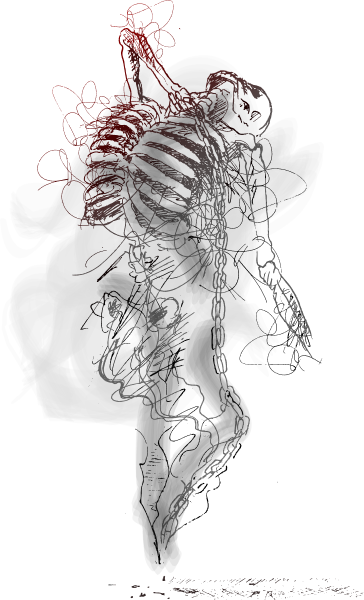
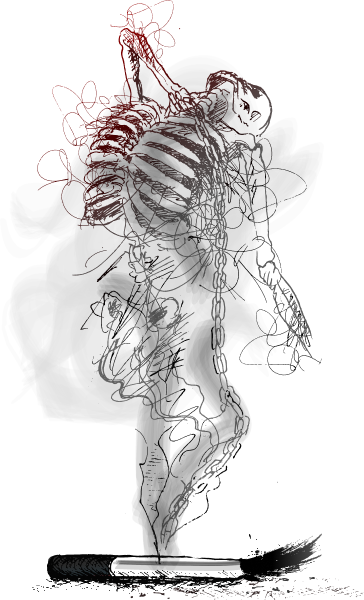
uiux skeleton picture changed

Changed region(s): [[0.1209, 0.9, 0.8764, 0.99], [0.3626, 0.06, 0.3929, 0.09]]

diff --git a/app/[locale]/components/pages/home/slidersItems.jsx b/app/[locale]/components/pages/home/slidersItems.jsx
@@ -20,7 +20,7 @@ const SlidersItems = ({ activeSlide, changeSlide, locale }) => {
                     ></div>
                 </div>
                 <div className='relative item_wrapper'>
-                    <Image src={frontItem} alt='frontend' className='cursor-pointer' onClick={() => changeSlide(1)} />
+                    <Image src={backItem} alt='frontend' className='cursor-pointer' onClick={() => changeSlide(1)} />
                     <div
                         className={`absolute left-[-37px] top-[30px] w-[14px] h-[14px] bg-[#80949C] rounded-full transition-all duration-200 ${
                             activeSlide === 1 ? 'shadow-customShadow bg-[#C6E8EA]' : ''
@@ -28,7 +28,7 @@ const SlidersItems = ({ activeSlide, changeSlide, locale }) => {
                     ></div>
                 </div>
                 <div className='relative item_wrapper'>
-                    <Image src={backItem} alt='uiux' className='cursor-pointer' onClick={() => changeSlide(2)} />
+                    <Image src={frontItem} alt='uiux' className='cursor-pointer' onClick={() => changeSlide(2)} />
                     <div
                         className={`absolute left-[-37px] top-[30px] w-[14px] h-[14px] bg-[#80949C] rounded-full transition-all duration-200 ${
                             activeSlide === 2 ? 'shadow-customShadow bg-[#C6E8EA]' : ''

diff --git a/app/[locale]/page.js b/app/[locale]/page.js
@@ -10,7 +10,6 @@ import Image from 'next/image';
 import arrowIcon from './../assets/icons/arrowIcon.svg';
 import arrowIconReverse from './../assets/icons/arrowIconReverse.svg';
 import { HomeStyle } from './home.style';
-import brush from './../assets/images/brush.png';
 import uiuxSkeleton from './../assets/images/uiuxSkeleton.png';
 import frontEndSkeleton from './../assets/images/frontEndSkeleton.png';
 import backEndSkeleton from './../assets/images/backEndSkeleton.png';
@@ -88,7 +87,6 @@ export default function Home() {
                             <div className='flex items-center gap-12'>
                                 <div className='flex-grow flex flex-col items-end'>
                                     <Image src={uiuxSkeleton} alt='uiuxPicture' onClick={() => changeSlide(2)} />
-                                    <Image src={brush} alt='uiuxPicture' className='mt-[-60px] mr-[50px]' />
                                 </div>
                                 <SlidersItems activeSlide={activeSlide} changeSlide={changeSlide} locale={locale} />
                             </div>

diff --git a/app/[locale]/components/layout/header.jsx b/app/[locale]/components/layout/header.jsx
@@ -52,7 +52,9 @@ const Header = ({ currentLocale }) => {
                         currentLocale === 'fa' ? 'font-picoopicRegular' : ''
                     }`}
                 >
-                    <li className='hidden customMd:list-item'>{t('Product')}</li>
+                    <li className='hidden customMd:list-item'>
+                        <Link href={'/products'}>{t('Product')}</Link>
+                    </li>
                     <li className='hidden customMd:list-item'>{t('Our team')}</li>
                     <li className='hidden customMd:list-item'>{t('Contact us')}</li>
                     <li className='hidden customMd:list-item'>{t('Articles')}</li>
